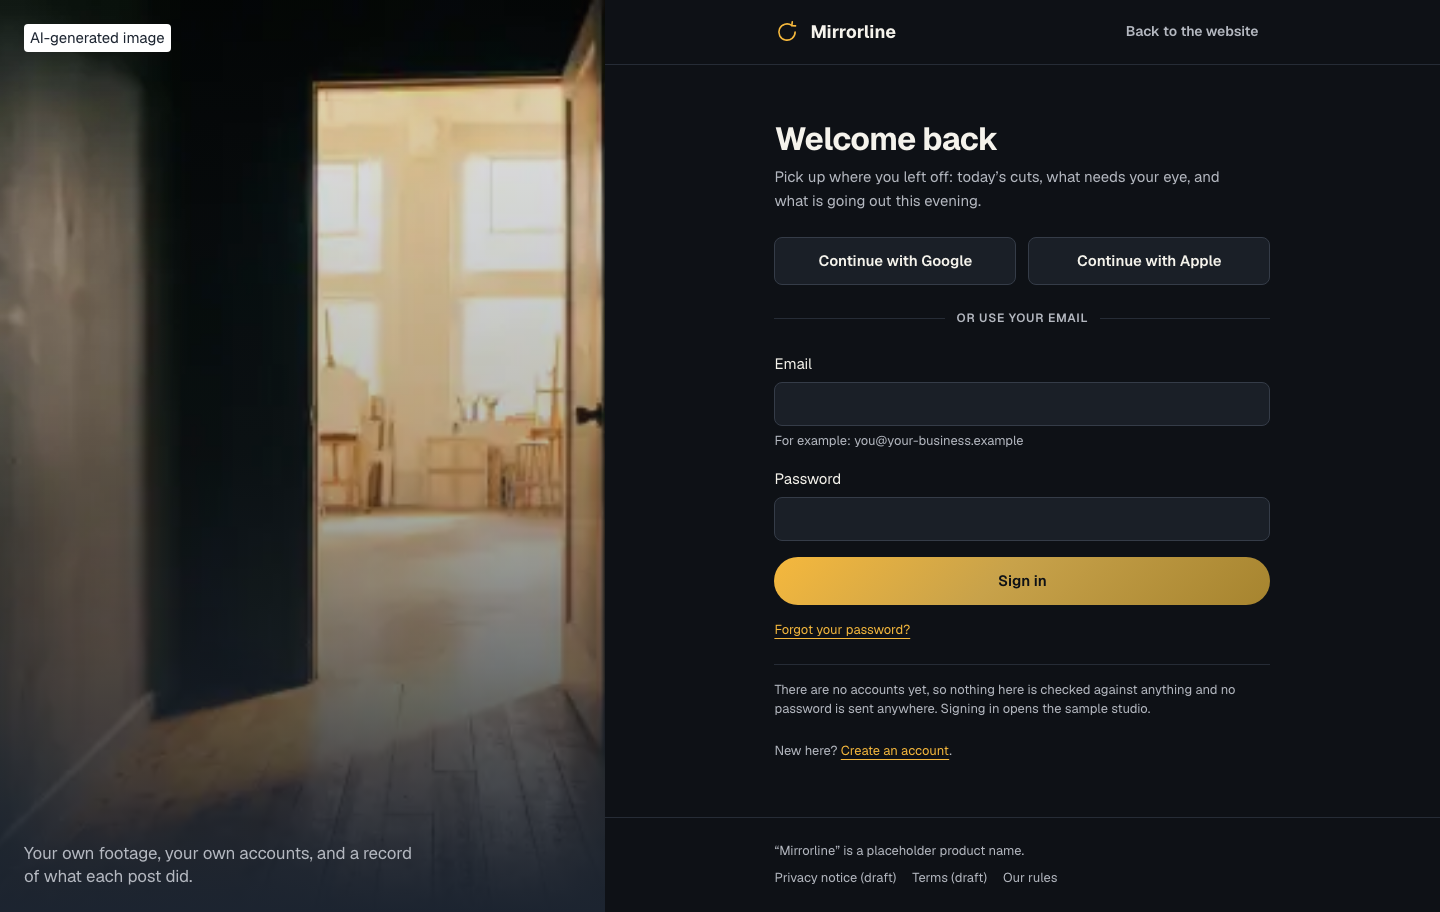
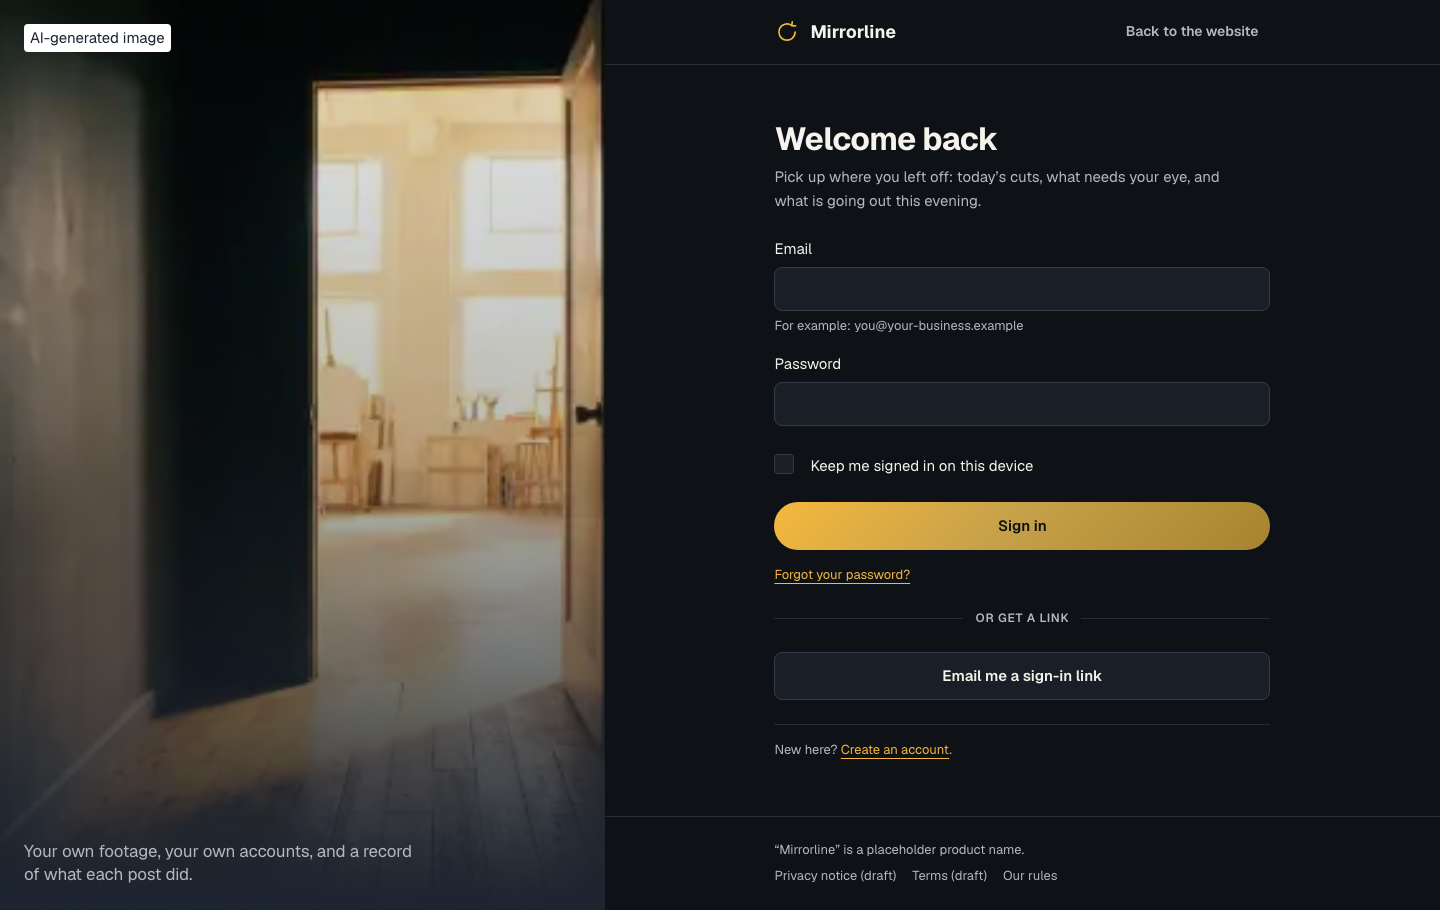
test(e2e): the sweep deletes this run's accounts and stale ones, never a live run's
Vlad's rule. The previous teardown deleted every address starting "e2e+",
which on one shared preview database (D76) meant two concurrent runs could
delete each other's accounts mid-test - a failure that surfaces as a random
auth error, the worst kind to debug.

The run id now carries its own timestamp: newRunId() is Date.now() in base 36
plus four random characters, so the teardown can tell an account's age from
its address alone. It deletes this run's accounts (the id is written to
.playwright/auth/run-id.txt, because teardown is a separate process) plus
anything older than two hours, and reports what it left alone.

An id it cannot parse is treated as NOT stale: the sweep refuses to guess
about something it does not recognise.

The rule has six unit tests in apps/web/lib/auth/sweep-rule.test.ts, restated
there because vitest does not collect e2e/**. The duplication is the cheaper
risk: a rule that decides whether to delete live data should not be the one
thing in the repo with no test.

Reference screenshots: sign-in and sign-up only, both opened and checked -
providers gone, "Keep me signed in on this device" present, magic-link button,
and the old "nothing here is checked" note removed. The index, agents,
product and resources deltas were capture noise and are not committed.

diff --git a/e2e/helpers/test-accounts.ts b/e2e/helpers/test-accounts.ts
@@ -15,11 +15,15 @@
  * ============================================================================
  *
  * D76 put every preview on **one shared database**, so whatever this suite
- * creates sits beside everything else. Accounts are therefore named
- * `e2e+<runId>-<label>@<domain>` and the teardown deletes **every** address
- * beginning `e2e+` — not only this run's. A crashed run leaves rows behind,
- * and a sweep that tidies only after itself is a sweep that slowly fills the
- * database.
+ * creates sits beside everything else. Accounts are named
+ * `e2e+<runId>-<label>@<domain>`, and the teardown deletes **this run's
+ * accounts, plus any `e2e+` account older than two hours**.
+ *
+ * Both halves matter. Sweeping only this run would let a crashed run's rows
+ * accumulate for ever; sweeping *every* `e2e+` address would let two
+ * concurrent runs delete each other's accounts mid-test, and that failure
+ * surfaces as a random auth error — the worst kind to debug. The age rule is
+ * the line between debris and somebody else's live fixtures.
  *
  * **Workspaces go before users.** Deleting the auth user cascades to
  * `profiles` and so to `memberships` — which would leave the workspace
@@ -42,8 +46,8 @@
  * so a typo cannot quietly deliver mail to a stranger.
  */
 
-import { existsSync, readFileSync } from 'node:fs'
-import { join, resolve } from 'node:path'
+import { existsSync, mkdirSync, readFileSync, writeFileSync } from 'node:fs'
+import { dirname, join, resolve } from 'node:path'
 
 const ENV_RELATIVE_PATH = join('apps', 'web', '.env.local')
 
@@ -139,9 +143,78 @@ export const TEST_ACCOUNT_PREFIX = 'e2e+'
 
 export const SIGNUP_DOMAIN = process.env.E2E_SIGNUP_DOMAIN ?? 'mirrorline-test.dev'
 
-/** One id per run, so parallel runs on the shared database cannot collide. */
+/**
+ * One id per run, so parallel runs on the shared database cannot collide.
+ *
+ * **The first eight characters are `Date.now()` in base 36**, which is what
+ * lets the teardown work out how old an account is from its address alone.
+ * That matters because the sweep must never delete a *live* account belonging
+ * to somebody else's run on the shared preview database (D76).
+ */
 export function newRunId(): string {
   return `${Date.now().toString(36)}${Math.random().toString(36).slice(2, 6)}`
+}
+
+const RUN_ID_TIMESTAMP_LENGTH = 8
+
+/** Where this run leaves its id for the teardown, which runs in a separate process. */
+const RUN_ID_FILE = '.playwright/auth/run-id.txt'
+
+export function writeRunId(runId: string): void {
+  mkdirSync(dirname(RUN_ID_FILE), { recursive: true })
+  writeFileSync(RUN_ID_FILE, runId, 'utf8')
+}
+
+export function readRunId(): string | null {
+  try {
+    const value = readFileSync(RUN_ID_FILE, 'utf8').trim()
+    return value.length > 0 ? value : null
+  } catch {
+    return null
+  }
+}
+
+/** When a run id was minted, or `null` if it does not parse. */
+function runIdMintedAt(runId: string): number | null {
+  const stamp = Number.parseInt(runId.slice(0, RUN_ID_TIMESTAMP_LENGTH), 36)
+  return Number.isFinite(stamp) && stamp > 0 ? stamp : null
+}
+
+/** Two hours. Longer than any run, short enough that debris does not accumulate. */
+export const STALE_ACCOUNT_AGE_MS = 2 * 60 * 60 * 1000
+
+/**
+ * Should the sweep delete this address?
+ *
+ * **Only two reasons**, and the distinction is the whole point:
+ *
+ * - it belongs to **this** run, or
+ * - it is **older than two hours**, so no live run can still be using it.
+ *
+ * An `e2e+` account from somebody else's run started ten minutes ago is left
+ * alone. The previous version deleted every `e2e+` address it found, which on
+ * a shared database (D76) meant two concurrent runs could delete each other's
+ * accounts mid-test — the failure would look like a random auth error, which
+ * is the worst kind to debug.
+ *
+ * An address whose id does not parse is treated as **not** stale: the sweep
+ * refuses to guess about something it does not recognise.
+ */
+export function shouldDeleteTestAccount(
+  email: string,
+  currentRunId: string | null,
+  now: number,
+): boolean {
+  if (!email.startsWith(TEST_ACCOUNT_PREFIX)) return false
+
+  const runId = email.slice(TEST_ACCOUNT_PREFIX.length).split('-')[0] ?? ''
+
+  if (currentRunId !== null && runId === currentRunId) return true
+
+  const mintedAt = runIdMintedAt(runId)
+  if (mintedAt === null) return false
+
+  return now - mintedAt > STALE_ACCOUNT_AGE_MS
 }
 
 export function testEmail(runId: string, label = 'studio'): string {
@@ -237,12 +310,18 @@ async function listTestUsers(config: SupabaseTestConfig): Promise<readonly Admin
   return found
 }
 
-/** Delete every tagged account and the workspaces they own. Workspaces first. */
-export async function deleteTestAccounts(config: SupabaseTestConfig): Promise<{
-  users: number
-  workspaces: number
-}> {
-  const users = await listTestUsers(config)
+/**
+ * Delete this run's accounts and anything older than two hours, and the
+ * workspaces they own. Workspaces first — see the note at the top of the file.
+ */
+export async function deleteTestAccounts(
+  config: SupabaseTestConfig,
+  currentRunId: string | null,
+  now: number = Date.now(),
+): Promise<{ users: number; workspaces: number; kept: number }> {
+  const all = await listTestUsers(config)
+  const users = all.filter((user) => shouldDeleteTestAccount(user.email, currentRunId, now))
+  const kept = all.length - users.length
   let workspaceCount = 0
 
   for (const user of users) {
@@ -272,7 +351,7 @@ export async function deleteTestAccounts(config: SupabaseTestConfig): Promise<{
     }).catch(() => null)
   }
 
-  return { users: users.length, workspaces: workspaceCount }
+  return { users: users.length, workspaces: workspaceCount, kept }
 }
 
 /**

diff --git a/apps/web/lib/auth/sweep-rule.test.ts b/apps/web/lib/auth/sweep-rule.test.ts
@@ -1,0 +1,90 @@
+/**
+ * The e2e teardown's delete rule, tested where the unit suite can see it.
+ *
+ * The rule lives in `e2e/helpers/test-accounts.ts`, which Vitest does not
+ * collect — `vitest.config.ts` covers `apps/web/**` and `packages/**`, not
+ * `e2e/**`, because those files are Playwright's. **But this rule decides
+ * whether to delete somebody's live data**, and a rule like that should not be
+ * the one thing in the repo with no test.
+ *
+ * So it is restated here as a pure function, with the cases that matter. The
+ * duplication is the cheaper of the two risks: the alternative is a sweep whose
+ * only evidence is that it has not yet deleted the wrong thing.
+ */
+
+import { describe, expect, test } from 'vitest'
+
+const TEST_ACCOUNT_PREFIX = 'e2e+'
+const RUN_ID_TIMESTAMP_LENGTH = 8
+const STALE_ACCOUNT_AGE_MS = 2 * 60 * 60 * 1000
+
+/** Mirrors `shouldDeleteTestAccount` in `e2e/helpers/test-accounts.ts`. */
+function shouldDeleteTestAccount(email: string, currentRunId: string | null, now: number): boolean {
+  if (!email.startsWith(TEST_ACCOUNT_PREFIX)) return false
+
+  const runId = email.slice(TEST_ACCOUNT_PREFIX.length).split('-')[0] ?? ''
+  if (currentRunId !== null && runId === currentRunId) return true
+
+  const stamp = Number.parseInt(runId.slice(0, RUN_ID_TIMESTAMP_LENGTH), 36)
+  if (!Number.isFinite(stamp) || stamp <= 0) return false
+
+  return now - stamp > STALE_ACCOUNT_AGE_MS
+}
+
+const NOW = 1_800_000_000_000
+
+/** A run id as `newRunId` makes one: `Date.now()` in base 36, plus four random. */
+function runIdAt(mintedAt: number): string {
+  return `${mintedAt.toString(36)}abcd`
+}
+
+describe('the e2e account sweep', () => {
+  test('deletes an account belonging to this run, however new', () => {
+    // Arrange — a run that started a second ago still owns its fixtures.
+    const runId = runIdAt(NOW - 1_000)
+
+    // Act / Assert
+    expect(shouldDeleteTestAccount(`e2e+${runId}-studio@x.dev`, runId, NOW)).toBe(true)
+  })
+
+  test("leaves another run's recent account alone", () => {
+    // Arrange — the case this rule exists for. Deleting it would break a run
+    // happening right now, and the failure would surface as a random auth
+    // error, which is the worst kind to debug.
+    const mine = runIdAt(NOW - 1_000)
+    const theirs = runIdAt(NOW - 10 * 60 * 1000)
+
+    // Act / Assert
+    expect(shouldDeleteTestAccount(`e2e+${theirs}-studio@x.dev`, mine, NOW)).toBe(false)
+  })
+
+  test('deletes any tagged account older than two hours', () => {
+    // Arrange — debris from a crashed run, which never reached its own cleanup.
+    const ancient = runIdAt(NOW - STALE_ACCOUNT_AGE_MS - 60_000)
+
+    // Act / Assert
+    expect(shouldDeleteTestAccount(`e2e+${ancient}-studio@x.dev`, null, NOW)).toBe(true)
+  })
+
+  test('keeps an account exactly at the boundary', () => {
+    // Arrange — "older than", not "at least as old as". A run cannot really be
+    // two hours old and still live, but the comparison should say what it
+    // means rather than be right by accident.
+    const boundary = runIdAt(NOW - STALE_ACCOUNT_AGE_MS)
+
+    // Act / Assert
+    expect(shouldDeleteTestAccount(`e2e+${boundary}-studio@x.dev`, null, NOW)).toBe(false)
+  })
+
+  test('never touches an address without the tag', () => {
+    // Arrange — the important one. A real account must be untouchable even if
+    // something about it happened to look ancient.
+    expect(shouldDeleteTestAccount('someone@a-real-business.com', null, NOW)).toBe(false)
+    expect(shouldDeleteTestAccount('maya@mayatorres.example', null, NOW)).toBe(false)
+  })
+
+  test('refuses to guess about an id it cannot parse', () => {
+    // Arrange — an unrecognised shape is left alone rather than assumed stale.
+    expect(shouldDeleteTestAccount('e2e+not-a-run-id@x.dev', null, NOW)).toBe(false)
+  })
+})

diff --git a/e2e/global-teardown.ts b/e2e/global-teardown.ts
@@ -1,12 +1,18 @@
-import { deleteTestAccounts, supabaseConfig, TEST_ACCOUNT_PREFIX } from './helpers/test-accounts'
+import {
+  deleteTestAccounts,
+  readRunId,
+  supabaseConfig,
+  TEST_ACCOUNT_PREFIX,
+} from './helpers/test-accounts'
 
 /**
  * Sweep every test account out of the shared preview database.
  *
  * D76 put all previews on one project, so anything this suite leaves behind
- * accumulates where real work happens. The sweep is by **prefix, not by run
- * id**: a crashed run never reaches its own cleanup, and a teardown that only
- * tidies after itself slowly fills the database it was meant to protect.
+ * accumulates where real work happens. The sweep takes **this run's accounts,
+ * plus any `e2e+` account older than two hours** — a crashed run never reaches
+ * its own cleanup, so age is what eventually collects it, while anything
+ * younger might still belong to a run happening right now.
  *
  * Runs after every project, including on failure — which is the case that
  * matters, because a failing run is exactly the one that left rows behind.
@@ -24,10 +30,13 @@ export default async function globalTeardown(): Promise<void> {
   }
 
   try {
-    const { users, workspaces } = await deleteTestAccounts(config)
+    const { users, workspaces, kept } = await deleteTestAccounts(config, readRunId())
+
+    const keptNote =
+      kept > 0 ? `, left ${kept} alone (another run's, under two hours old)` : ''
 
     console.log(
-      `[e2e teardown] removed ${users} account(s) matching "${TEST_ACCOUNT_PREFIX}" and ${workspaces} workspace(s)`,
+      `[e2e teardown] removed ${users} account(s) matching "${TEST_ACCOUNT_PREFIX}" and ${workspaces} workspace(s)${keptNote}`,
     )
   } catch (error: unknown) {
     const message = error instanceof Error ? error.message : 'unknown failure'

diff --git a/e2e/auth.setup.ts b/e2e/auth.setup.ts
@@ -7,6 +7,7 @@ import {
   supabaseConfig,
   testEmail,
   testPassword,
+  writeRunId,
 } from './helpers/test-accounts'
 
 /**
@@ -44,6 +45,11 @@ setup('sign in and save the session', async ({ page }) => {
   if (config === null) return
 
   const runId = newRunId()
+  // The teardown runs in its own process and cannot see this variable, so the
+  // id goes to disk. Without it the sweep would only know the age rule, and
+  // this run's own accounts would survive until they were two hours old.
+  writeRunId(runId)
+
   const email = testEmail(runId)
   const password = testPassword(runId)
 
